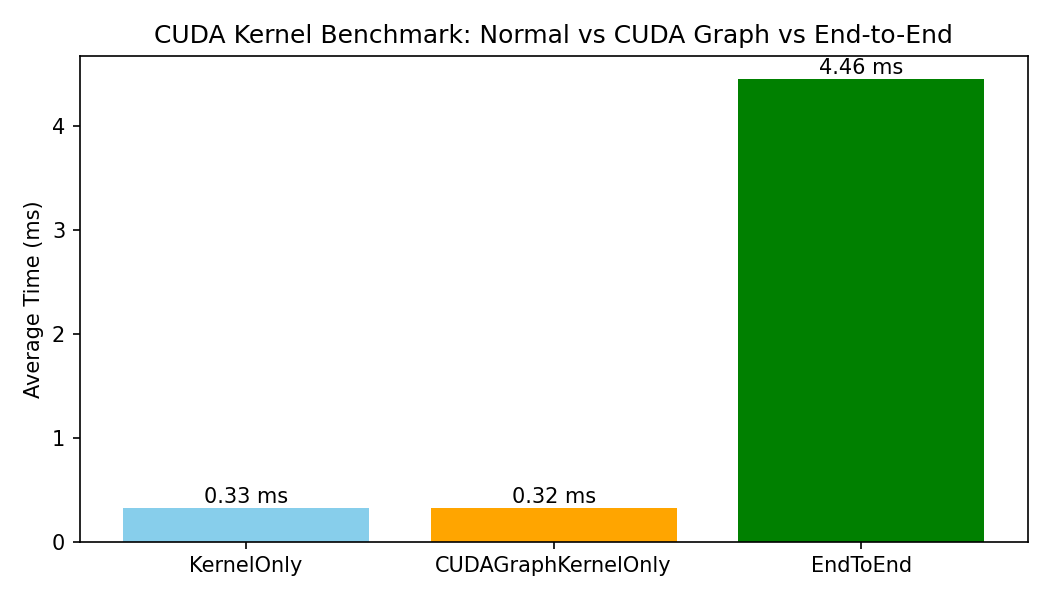
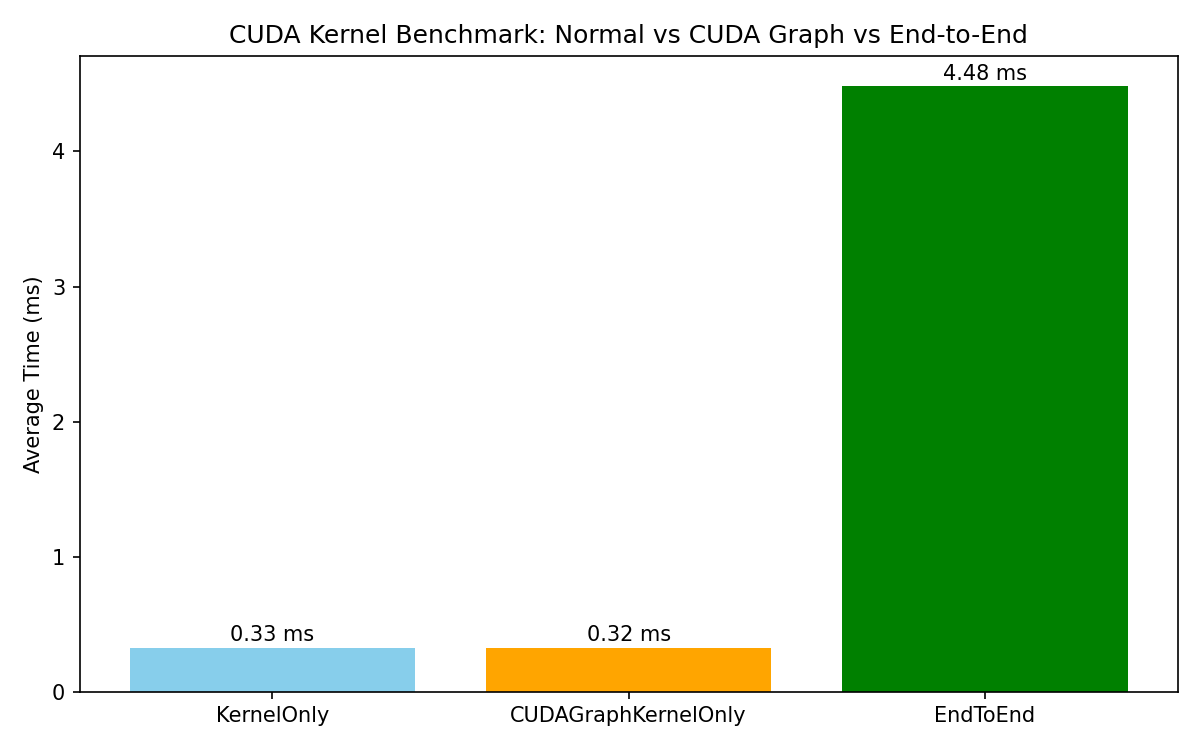
(#0012)

Changed region(s): [[0.0, 0.03, 1.0, 0.96]]

diff --git a/cuda-vector-add/README.md b/cuda-vector-add/README.md
@@ -18,9 +18,10 @@ mkdir build && cd build
 cmake ..
 make
 python3 plot_results.py
-
+```
 
 or
+```bash
 # 1. Compile CUDA code
 nvcc vector_add_graph_events.cu -o vector_add_graph
 
@@ -44,3 +45,22 @@ This repository benchmarks **normal kernel**, **CUDA Graph kernel-only**, and **
 ![Benchmark Plot](benchmark_plot.png)
 
 > CUDA Graph provides slight speedup for kernel-only execution. End-to-end timing is dominated by Host ↔ Device memory copies.
+
+
+## Run Benchmark
+
+You can compile, run, and plot the CUDA vector addition benchmark **with a single command**:
+
+```bash
+chmod +x run_benchmark.sh
+./run_benchmark.sh
+```
+Example Output
+```bash
+A = [0, 1, 2, 3, 4, 5, 6, 7, 8, 9, ...]
+B = [0, 2, 4, 6, 8, 10, 12, 14, 16, 18, ...]
+C = [0, 3, 6, 9, 12, 15, 18, 21, 24, 27, ...]
+Kernel-only avg time: 0.33 ms
+CUDA Graph kernel-only avg time: 0.30 ms
+End-to-end avg time: 4.44 ms
+```
